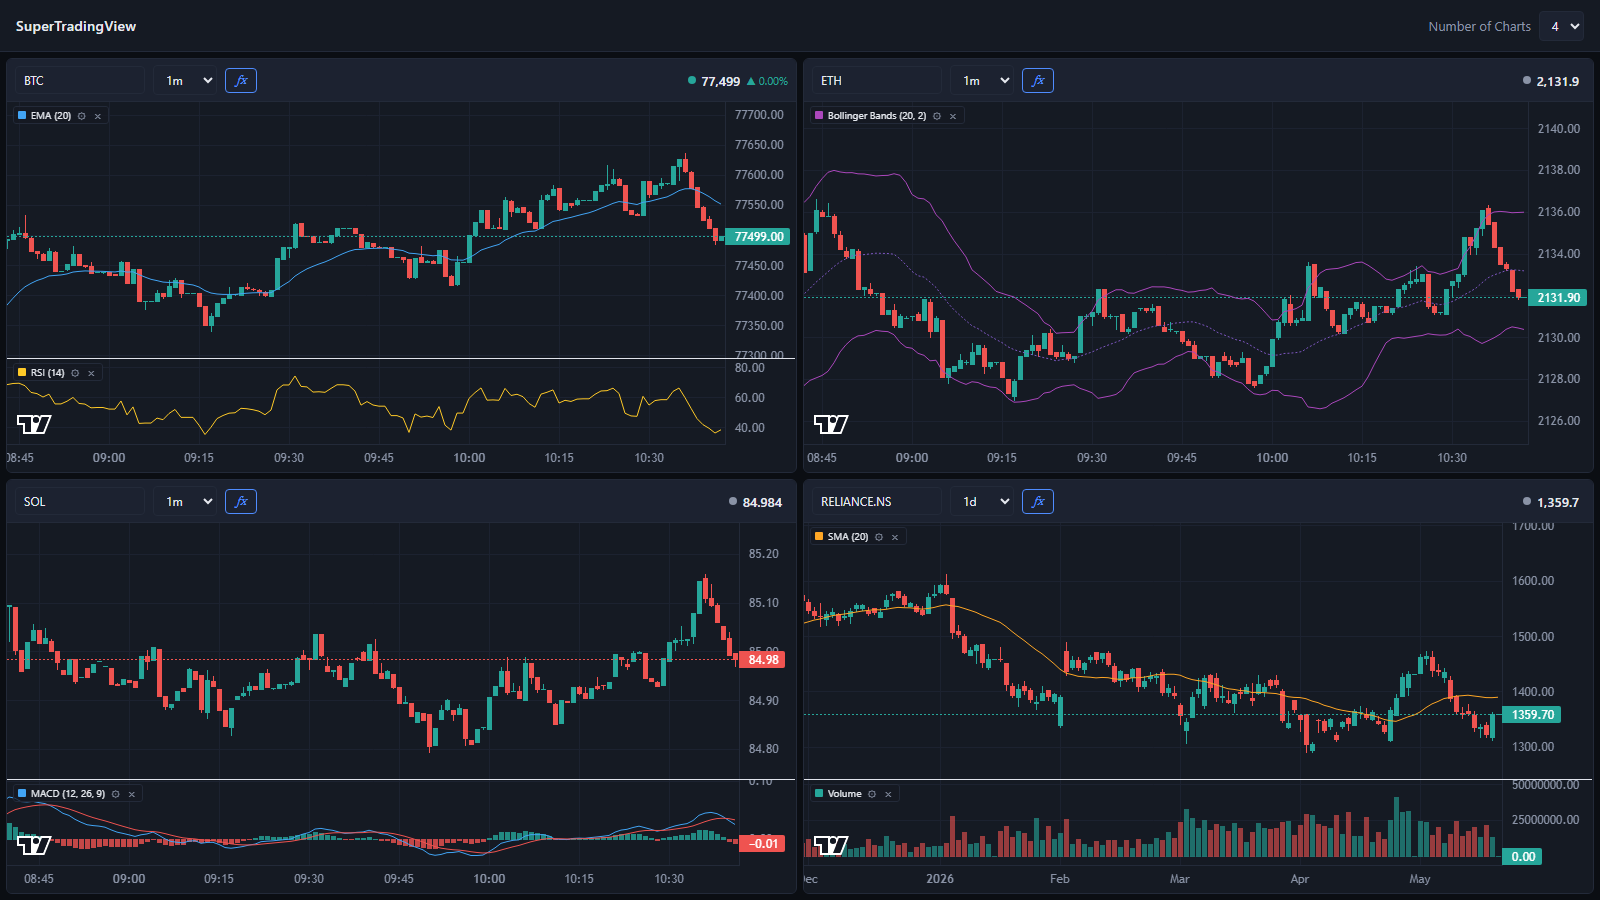
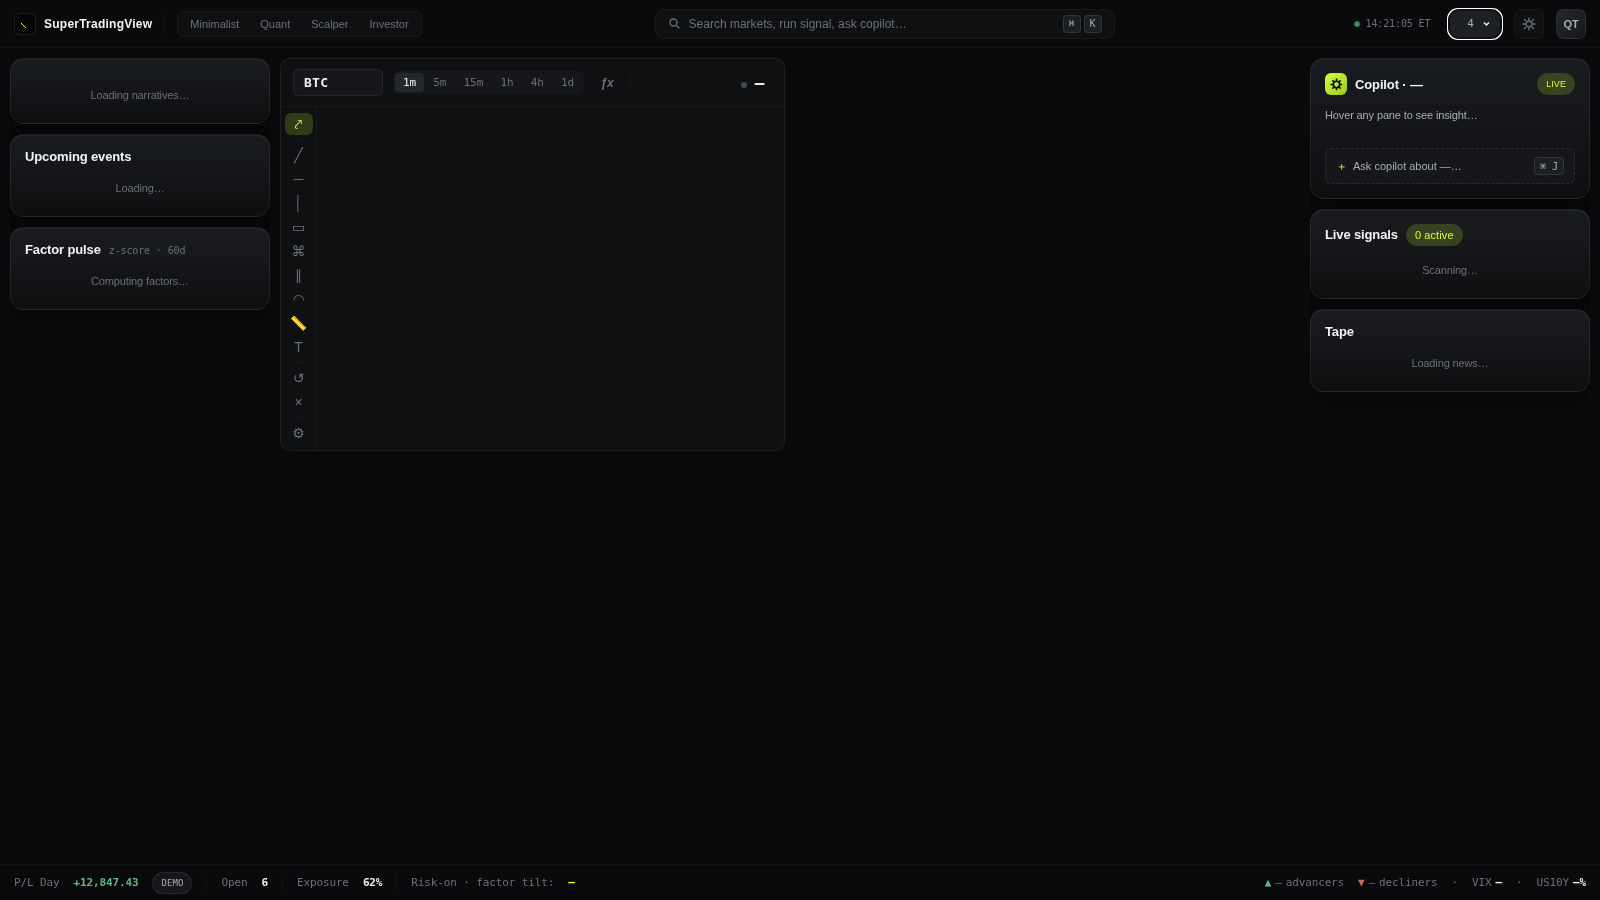
docs: update README and screenshots for revamped workspace UI
Replaces the old single-pane screenshot with two new screenshots
(dark and light themes) showing the Phase 1 workspace shell:
three-column layout with left/right rails, bottom dock, personality
presets, command palette, and the new obsidian design token system.

README rewritten to accurately reflect all new features:
- workspace shell (rails, dock, personality, layout popover, ⌘K palette)
- updated endpoint table with /narratives, /news, /events, /factors,
  /signals, /quote/breadth
- updated project layout tree with new JSON config files and services
- updated architecture notes (design tokens, ~1100-line app.js)

https://claude.ai/code/session_01CiQsw4ogmD1FJPiHS4CWgw

diff --git a/README.md b/README.md
@@ -1,29 +1,59 @@
 # SuperTradingView
 
-A local trading dashboard. Watch up to 8 live charts side-by-side, each with its own symbol, timeframe, and any combination of 33 technical indicators. Crypto streams in real time from Hyperliquid; stocks / ETFs / futures / FX stream from any ticker Yahoo Finance indexes via a Flask bridge over yfinance. Live symbol search across both. Built on Lightweight Charts v5 with native multi-pane support.
+A local trading dashboard with a full workspace shell. Watch up to 8 live charts in a configurable grid, each with its own symbol, timeframe, and any combination of 33 technical indicators. Flanking the charts: a left-rail of narratives / factor pulse / events and a right-rail of AI insight / live signals / news tape. A bottom dock shows real-time breadth, VIX, and US10Y. Crypto streams via Hyperliquid's public WebSocket; stocks / ETFs / futures / FX stream through a Flask–yfinance SSE bridge.
 
-![SuperTradingView dashboard](docs/screenshot.png)
+![SuperTradingView workspace — dark mode](docs/screenshot.png)
+
+![SuperTradingView workspace — light mode](docs/screenshot-light.png)
 
 ---
 
 ## Features
 
-- **Configurable grid** — 1, 2, 4, 6, or 8 charts in the cleanest layout per count (1×1, 2×1, 2×2, 3×2, 4×2). Selection persists across reloads.
+### Workspace
+
+- **Three-column layout** — left rail (narratives / events / factor pulse), center chart grid, right rail (AI insight / live signals / news tape).
+- **Bottom dock** — live advancers / decliners across a 100-symbol universe, VIX, US10Y, and a DEMO P/L placeholder.
+- **Personality presets** — segmented control in the top bar: **Minimalist** (1-up NVDA, 1D), **Quant** (4-up SPY/NVDA/TLT/VIX, 1h), **Scalper** (4-up ES/NQ/NVDA/TSLA, 5m), **Investor** (1+2 SPY/TLT/GLD, 1D). Switching applies the preset's layout, symbols, and timeframe while preserving per-slot indicators.
+- **7-preset layout selector** — top-right popover with `1 up`, `2 H`, `2 V`, `1+2`, `2×2`, `3×2`, `4×2`. Switch by clicking or via <kbd>⌘/Ctrl</kbd>+<kbd>1–7</kbd>.
+- **Command palette** — <kbd>⌘K</kbd> / <kbd>Ctrl K</kbd> opens a global symbol search that jumps the result to pane 1.
+- **Live ET clock** with daylight-saving correction.
+- **Theme toggle** — obsidian dark (electric-lime acid accent) ↔ warm-paper light (olive acid accent). Persisted to `localStorage`.
+
+### Charts
+
+- **Configurable grid** — 1–8 charts (7 layout presets). Selection persists across reloads.
 - **Independent panes** — each pane picks its own symbol and timeframe (1m, 5m, 15m, 1h, 4h, 1d). Per-pane state persists in `localStorage`.
 - **Two default data sources, swappable**
   - **Hyperliquid** for crypto via the public WebSocket (`wss://api.hyperliquid.xyz/ws`), opened directly from the browser. Historical candles are proxied through Flask to avoid CORS.
-  - **yfinance** for everything Yahoo Finance covers — NSE/BSE Indian equities, US equities, global ETFs, indices, futures, FX, even crypto pairs. Bridged into the browser via Server-Sent Events: Flask polls every 2 s and emits on price change.
-- **Pluggable data layer** — drop in Alpaca / Binance / Zerodha / Groww / Polygon by writing one class in [`data_source.py`](data_source.py) and adding it to the `REGISTRY`. No frontend changes needed.
-- **33 technical indicators** with custom params and per-line colours (see table below). Sub-pane indicators render in their own pane below the candles with their own price axis.
+  - **yfinance** for everything Yahoo Finance covers — NSE/BSE Indian equities, US equities, global ETFs, indices, futures, FX, crypto pairs. Bridged via Server-Sent Events: Flask polls every 2 s and emits on price change.
+- **Pluggable data layer** — drop in Alpaca / Binance / Zerodha / Groww / Polygon by writing one class in [`data_source.py`](data_source.py) and adding it to `REGISTRY`. No frontend changes needed.
+- **33 technical indicators** with custom params and per-line colours (see table below). Sub-pane indicators render in their own pane with their own price axis.
 - **Multi-instance indicators** — add the same indicator multiple times with different parameters (e.g. SMA 20 + SMA 50 + SMA 200). Each instance is tracked independently with a `#N` badge when multiple copies are active.
 - **MA Crossover — Golden / Death Cross** — dedicated indicator plotting a fast MA and slow MA (SMA or EMA) with arrow markers at every crossover event.
-- **Per-pane legend chips** in the top-left: indicator name + params + colour swatch + gear (opens modal scrolled to that indicator) + quick remove (×). Controls are hover-only to keep the chart clean.
-- **Live colour-coded ticker bar** in each pane header that flashes green or red on every price change.
-- **Live symbol search** — as you type in any symbol input, the dropdown queries the backend, which merges:
-  - a curated quick-load list of popular Hyperliquid perps and NSE tickers (instant),
-  - the full **Hyperliquid perp universe** via `/info?meta` (cached 1 hour),
-  - **Yahoo Finance's global search** via `yfinance.Search` — equities, ETFs, indices, futures, crypto across every exchange Yahoo indexes.
+- **Per-pane legend chips** — indicator name + params + colour swatch + gear (opens modal) + quick remove (×). Hover-only to keep the chart clean.
+- **Live colour-coded ticker bar** in each pane header, flashing green or red on every price change.
+- **Live symbol search** — as you type, the backend merges a curated quick-load list, the full Hyperliquid perp universe, and Yahoo Finance's global search.
 - **No build step, no deployment, no API keys** required for the default sources.
+
+### Drawing Tools
+
+Each pane has a left-edge toolbar (toggle to floating palette in settings) with 9 tools plus undo / erase utilities:
+
+| Category | Tools |
+|---|---|
+| Lines | Trendline, Horizontal line, Vertical line |
+| Bands & Channels | Rectangle / zone, Parallel channel |
+| Levels | Fibonacci retracement |
+| Arcs | Arc |
+| Measurement | Measurement ruler (Δprice / Δ% / bars / Δtime) |
+| Annotation | Text |
+
+- **Shift-to-snap** — hold Shift to snap endpoints to the nearest OHLC of the targeted candle. Default configurable in ⚙ settings popover (Held / Always / Never).
+- **Selection** — click to select; drag handles to reshape, drag mid-handle to move; floating mini-toolbar (✏ edit / ⎘ duplicate / ↑ bring-to-front / × delete).
+- **Style modal** — colour, line width, dash pattern, opacity, label text, extend direction per drawing.
+- **Per-(symbol, source) persistence** — drawings follow the symbol across pane changes and timeframe switches.
+- **Undo / redo** — <kbd>Ctrl+Z</kbd> / <kbd>Ctrl+Y</kbd>, 50-entry history per pane (configurable). Per-pane "↺" button and "×" erase-all (with confirm) also wired.
 
 ---
 
@@ -43,89 +73,17 @@ A local trading dashboard. Watch up to 8 live charts side-by-side, each with its
 
 ---
 
-## Drawing Tools
+## Rail cards
 
-Each pane has a left-edge toolbar (toggle to floating palette in settings) with 9 drawing tools plus undo/erase utilities:
+### Left rail
+- **Narratives** — curated themes (`AI boom`, `Energy cycle`, `War risk`, `Rate cuts`, `Reflation`, `Mag 7`) defined in `narratives.json`. Update by editing the file.
+- **Upcoming events** — hand-curated macro calendar (`events.json`) merged with per-symbol earnings dates from yfinance (cached 1 hour per ticker).
+- **Factor pulse** — server-side cross-sectional z-scores over a 100-symbol universe in `factor_universe.json`. First load is 30–60 s (yfinance cold start over 100 symbols); cached 30 minutes with stale-while-revalidate.
 
-| Category | Tools |
-|---|---|
-| Lines | Trendline, Horizontal line, Vertical line |
-| Bands & Channels | Rectangle / zone, Parallel channel |
-| Levels | Fibonacci retracement |
-| Arcs | Arc |
-| Measurement | Measurement ruler (Δprice / Δ% / bars / Δtime) |
-| Annotation | Text |
-
-- **Shift-to-snap** — hold Shift while clicking to snap endpoints to the nearest OHLC of the targeted candle. Default behaviour is configurable in the ⚙ settings popover (Shift held / Always / Never).
-- **Selection** — click any drawing to select it; circular handles appear (drag endpoints to reshape, drag the mid handle to move the whole shape), plus a floating mini-toolbar (✏ edit / ⎘ duplicate / ↑ bring-to-front / × delete).
-- **Style modal** — colour, line width, dash pattern, opacity, label text, and extend direction per drawing.
-- **Per-(symbol, source) persistence** — drawings follow the symbol across pane changes and timeframe switches; they store absolute time/price coordinates and re-project on every redraw.
-- **Undo / redo** — `Ctrl+Z` / `Ctrl+Y` (also `Ctrl+Shift+Z`), 50-entry history per pane (configurable in settings). Per-pane "↺" toolbar button and "×" erase-all (with confirm) also wired.
-- **Toolbar mode** — switch between fixed left-edge toolbar and a floating-palette mode (✏ in the pane header opens/closes the palette).
-
----
-
-## UI / UX
-
-### Top bar
-- **Brand accent pill** — gradient mark beside the logo
-- **Layout switcher** — five SVG grid-icon buttons (replaces a `<select>`) with the active layout highlighted
-
-### Per-pane header
-- **Timeframe pills** — horizontal scrollable pill row (replaces a `<select>`); active pill is highlighted
-- **ƒx button** — opens the indicators modal; shows a live badge with the count of active indicators
-
-### Indicators modal
-- **Live search** — type to instantly filter the indicator list; shows an empty-state message when nothing matches
-- **Active-state accent** — active indicators show a blue left-border highlight
-- **Entrance animation** — panel slides up with a scale ease; backdrop fades in
-- **Multi-instance UX** — "+ Add" button per indicator; each active instance shows a numbered header with a remove button and inline param editors
-
-### General polish
-- Design tokens: `--panel-3`, `--border-hi`, `--accent-hi`, consistent border radii and shadow
-- Custom thin scrollbar throughout
-- Hover-reveal legend controls (gear / ×)
-
----
-
-## Workspace shell (Phase 1 redesign)
-
-The single-page UI is organized around a three-column workspace: a left rail of
-*narratives / factor pulse / upcoming events*, a center grid of 1-8 configurable
-charts, and a right rail of *AI insight / live signals / news tape*. A 36-pixel
-bottom dock shows real advancers/decliners across the curated 100-symbol
-universe plus live VIX and US10Y, with a `DEMO`-tagged P/L placeholder until a
-real portfolio backend lands.
-
-- **Tokens:** obsidian + electric-lime acid accent in dark mode; warm-paper + olive
-  acid in light mode. Toggle via the sun icon in the top bar; persisted to
-  `localStorage["stv.theme"]`.
-- **Layout selector:** top-right popover with 7 presets (`1 up`, `2 H`, `2 V`,
-  `1+2`, `2×2`, `3×2`, `4×2`). Switch via mouse or `⌘/Ctrl + 1-7`.
-- **Personality presets:** Minimalist / Quant / Scalper / Investor segmented
-  control. Switching applies a preset's layout id + symbol set + default
-  timeframe; per-pane indicators are preserved by slot index across switches.
-- **Narratives:** curated themes (`AI boom`, `Energy cycle`, `War risk`, `Rate
-  cuts`, `Reflation`, `Mag 7`) live in `narratives.json` at the repo root.
-  Update by editing the file.
-- **Factor pulse:** server-side cross-sectional z-scores over a 100-symbol
-  universe in `factor_universe.json`. First load takes 30-60s (yfinance
-  cold-start over 100 symbols); cached 30 minutes with stale-while-revalidate
-  thereafter.
-- **AI insight:** *deterministic* — derived from the active pane's history
-  (regime via 200-SMA, vol-cluster detection, hidden RSI divergence,
-  OBV-trended flow proxy). The `Ask copilot` button and `⌘K` shortcut are
-  placeholders for a future LLM-backed palette; they show a "coming soon"
-  toast today.
-- **Events:** `events.json` is a hand-curated calendar of macro events for the
-  next 7 days; per-symbol earnings dates come from yfinance and are cached
-  one hour per ticker.
-- **News tape:** RSS aggregation over Yahoo Finance, Reuters Business, and
-  MarketWatch via `feedparser`. Cached 5 minutes.
-
-The Lightweight Charts v5 chart engine, the indicator framework
-(`static/indicators.js`), and the drawing layer (`static/drawings.js`) are
-unchanged in this phase — only the surrounding chrome was reworked.
+### Right rail
+- **Copilot insight** — deterministic regime analysis on the active pane's history: 200-SMA regime, vol-cluster detection, hidden RSI divergence, OBV-trend proxy. The `Ask copilot` button and <kbd>⌘J</kbd> are placeholders for a future LLM palette.
+- **Live signals** — server-side indicator scanner over the curated symbol universe; active signals shown with directional badge.
+- **Tape** — RSS aggregation over Yahoo Finance, Reuters Business, and MarketWatch via feedparser. Cached 5 minutes.
 
 ---
 
@@ -135,10 +93,9 @@ unchanged in this phase — only the surrounding chrome was reworked.
 git clone https://github.com/raunakshroff/SuperTradingView.git
 cd SuperTradingView
 pip install -r requirements.txt
-# Run the app
 # macOS / Linux
 python3 app.py
-# Windows (recommended):
+# Windows (recommended)
 py -3 app.py
 ```
 
@@ -152,17 +109,22 @@ Requirements: Python 3.10+ and an internet connection (for the Hyperliquid WS an
 
 ```
 SuperTradingView/
-├── app.py              # Flask app: /, /sources, /symbols, /history, /stream/quotes (SSE)
-├── data_source.py      # DataSource ABC + HyperliquidSource + YFinanceSource + REGISTRY
-├── symbols.json        # Curated quick-load list; live search supplements via Hyperliquid + Yahoo
-├── requirements.txt    # flask, yfinance, requests
+├── app.py                  # Flask app — / , /sources, /symbols, /history, /stream/quotes,
+│                           #   /narratives, /news, /events, /factors, /signals, /quote/breadth
+├── data_source.py          # DataSource ABC + HyperliquidSource + YFinanceSource + REGISTRY
+├── symbols.json            # Curated quick-load list; live search supplements via HL + Yahoo
+├── narratives.json         # Curated narrative themes for the left-rail card
+├── events.json             # Hand-curated macro event calendar (next 7 days)
+├── factor_universe.json    # 100-symbol universe for the factor pulse card
+├── requirements.txt        # flask, yfinance, requests, feedparser
 └── static/
-    ├── index.html      # Topbar, grid, pane template, indicators modal, style modal, settings popover
-    ├── style.css       # Dark theme, grid layout, modal, legend chips, flash animations
-    ├── indicators.js   # 33 indicator defs with build / compute / apply per indicator
-    ├── drawings.js     # 9 drawing tool defs + DrawingLayer + DrawingStore + StyleModal + SettingsPopover
-    ├── drawings.css    # Toolbar, handles, mini-toolbar, style modal, settings popover
-    └── app.js          # Pane class, HL WS multiplexer, SSE client, modal, legends, debounced symbol search
+    ├── index.html          # Workspace shell — topbar, 3-column layout, pane template, modals
+    ├── style.css           # Obsidian dark / warm-paper light design tokens, workspace layout
+    ├── indicators.js       # 33 indicator defs (build / compute / apply)
+    ├── drawings.js         # 9 drawing tool defs + DrawingLayer + DrawingStore + modals
+    ├── drawings.css        # Toolbar, handles, mini-toolbar, style modal, settings popover
+    └── app.js              # Pane class, HL WS multiplexer, SSE client, rail cards, dock,
+                            #   personality, layout popover, command palette, clock
 ```
 
 ---
@@ -177,6 +139,12 @@ SuperTradingView/
 | `GET` | `/symbols?q=...` | Live search merging curated + every source's `search_symbols(q)` |
 | `GET` | `/history?source=...&symbol=...&tf=...&limit=500` | OHLCV array from the named source |
 | `GET` | `/stream/quotes?source=...&symbol=...&tf=...` | SSE stream of `{time, price}` ticks |
+| `GET` | `/narratives` | Narrative themes from `narratives.json` |
+| `GET` | `/news` | Latest 10 headlines aggregated from Yahoo / Reuters / MarketWatch RSS |
+| `GET` | `/events` | Macro calendar + per-symbol earnings dates |
+| `GET` | `/factors` | Cross-sectional factor z-scores over the 100-symbol universe |
+| `GET` | `/signals` | Live indicator signal scan results |
+| `GET` | `/quote/breadth` | Advancers / decliners + VIX + US10Y for the bottom dock |
 
 ---
 
@@ -230,12 +198,13 @@ The modal, chart wiring, persistence, sub-pane layout, legend chip, multi-instan
 
 ## Architecture notes
 
-- **Frontend is a single page with no framework** — `static/app.js` is ~900 lines of vanilla JS organised around a `Pane` class. One chart instance per pane.
+- **Frontend is a single page with no framework** — `static/app.js` is ~1 100 lines of vanilla JS organised around a `Pane` class plus standalone modules for each rail card and the bottom dock.
+- **Design tokens** — obsidian + electric-lime acid in dark mode; warm-paper + olive acid in light mode. All colours, radii, and shadows are CSS custom properties; toggling `<html data-theme="light">` switches the full palette.
 - **Hyperliquid WebSocket multiplexer** — a single WS connection feeds every crypto pane via a callback registry, with exponential-backoff reconnect (1 s → 30 s cap).
 - **yfinance over SSE** — `stream_quotes()` is a Python generator polled every 2 s; the browser patches the in-memory candle array via `EventSource`.
-- **Lightweight Charts v5 multi-pane** — sub-pane indicators are added via `chart.addSeries(LineSeries, opts, paneIndex)` with proportional `setStretchFactor`.
-- **Indicator instance keys** — first instance uses bare `defId` (e.g. `"sma"`) for backward compat with persisted state; subsequent instances append `~<timestamp>` (e.g. `"sma~1716200000000"`).
-- **State persistence** — `stv.chartCount` and `stv.panes` in `localStorage`. Per-pane state shape: `{ source, symbol, tf, indicators: { [key]: { ...params, colors: { [slot]: hex } } } }`.
+- **Lightweight Charts v5 multi-pane** — sub-pane indicators are added via `chart.addSeries(LineSeries, opts, paneIndex)` with proportional `setStretchFactor`. `panes[i].getHTMLElement()` is `null` synchronously after `addSeries`; legends defer via `requestAnimationFrame`.
+- **Indicator instance keys** — first instance uses bare `defId` (e.g. `"sma"`) for backward compat; subsequent instances append `~<timestamp>` (e.g. `"sma~1716200000000"`).
+- **State persistence** — `stv.layoutId`, `stv.panes`, `stv.theme`, `stv.personality`, `stv.drawingPrefs` in `localStorage`. Per-pane shape: `{ source, symbol, tf, indicators: { [key]: { ...params, colors: { [slot]: hex } } } }`.
 
 ---
 
